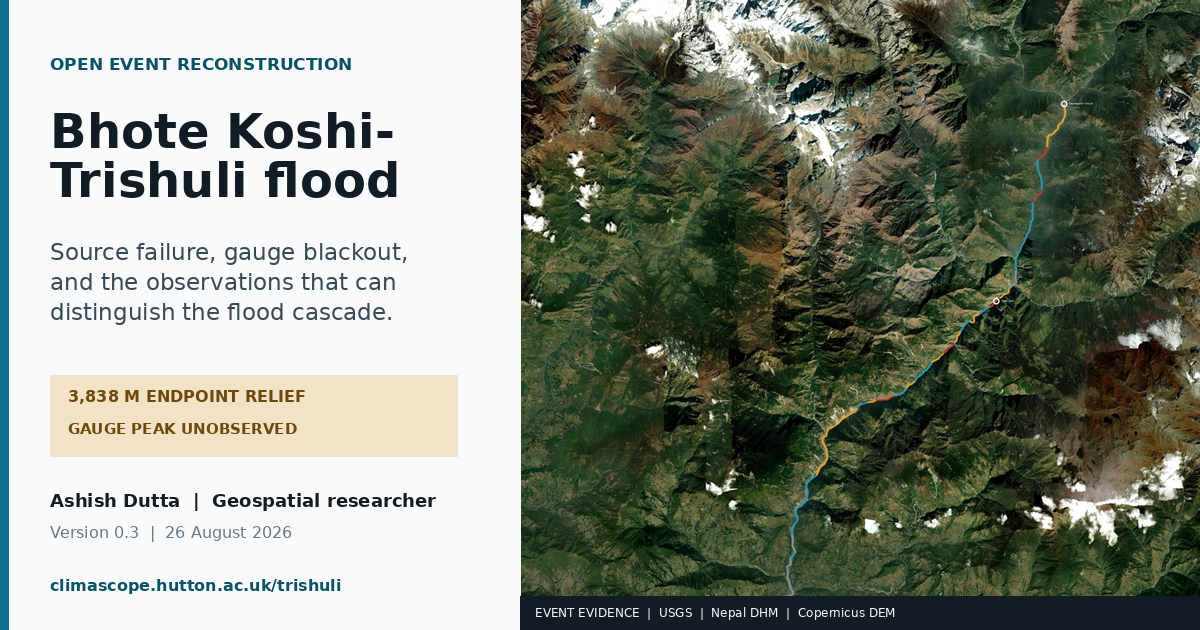
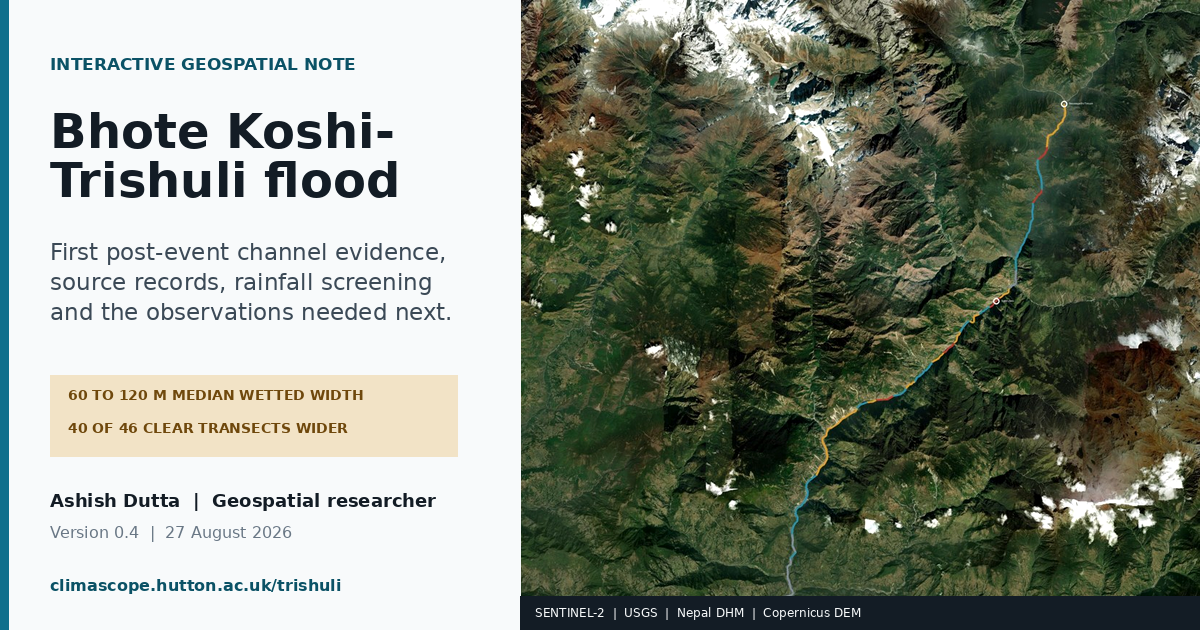
Lead the Trishuli note with measured change
Put the controlled Sentinel-2 channel-width result first, add a clearly caveated rainfall screen, document why the new Planet imagery is not quantitative, and keep the current 2026 trigger separate from the 2025 supraglacial-lake attribution. Refresh the interactive map identity and social preview around the new evidence.

diff --git a/templates/trishuli_report.html b/templates/trishuli_report.html
@@ -3,21 +3,21 @@
 <head>
 <meta charset="utf-8">
 <meta name="viewport" content="width=device-width,initial-scale=1">
-<title>Trishuli Flood Event Reconstruction | ClimaScope</title>
-<meta name="description" content="An open, testable reconstruction of the 26 August 2026 Bhote Koshi-Trishuli flood: source failure, terrain relief, gauge telemetry loss, competing mechanisms and the observations needed next.">
+<title>Trishuli Flood Geospatial Research Note | ClimaScope</title>
+<meta name="description" content="An evolving geospatial research note on the 26 August 2026 Bhote Koshi-Trishuli flood: first post-event channel measurements, source evidence, rainfall screening and public gauge telemetry.">
 <meta name="author" content="Ashish Dutta">
 <link rel="canonical" href="https://climascope.hutton.ac.uk/trishuli/report">
 <meta property="og:type" content="article">
 <meta property="og:site_name" content="ClimaScope">
-<meta property="og:title" content="Trishuli Flood: Source-to-impact Reconstruction">
-<meta property="og:description" content="Measured source relief, a public gauge-telemetry audit, competing mechanisms and an open evidence ledger.">
+<meta property="og:title" content="Bhote Koshi-Trishuli Flood: An Evolving Geospatial Note">
+<meta property="og:description" content="Interactive evidence and the first controlled post-event channel comparison, by geospatial researcher Ashish Dutta.">
 <meta property="og:url" content="https://climascope.hutton.ac.uk/trishuli/report">
 <meta property="og:image" content="https://climascope.hutton.ac.uk/static/trishuli/social-card.png">
 <meta property="og:image:width" content="1200">
 <meta property="og:image:height" content="630">
 <meta name="twitter:card" content="summary_large_image">
-<meta name="twitter:title" content="Trishuli Flood: Source-to-impact Reconstruction">
-<meta name="twitter:description" content="What the current evidence establishes, what remains unresolved, and how to contribute new observations.">
+<meta name="twitter:title" content="Bhote Koshi-Trishuli Flood: An Evolving Geospatial Note">
+<meta name="twitter:description" content="Interactive evidence and the first controlled post-event channel comparison, by geospatial researcher Ashish Dutta.">
 <meta name="twitter:image" content="https://climascope.hutton.ac.uk/static/trishuli/social-card.png">
 <link rel="stylesheet" href="{{ url_for('static', filename='trishuli/base.css') }}?v={{ av('trishuli/base.css') }}">
 <link rel="stylesheet" href="{{ url_for('static', filename='trishuli/report.css') }}?v={{ av('trishuli/report.css') }}">
@@ -28,15 +28,15 @@
   <a href="/">ClimaScope</a><span class="sep">/</span>
   <a href="/trishuli">Evidence map</a><span class="sep">/</span>
   <span>Event reconstruction</span>
-  <span class="grow">Version 0.3.1 &middot; 27 Aug 2026, 09:45 UTC</span>
+  <span class="grow">Version 0.4.0 &middot; 27 Aug 2026, 12:25 UTC</span>
 </div>
 
 <header class="mast">
   <div class="mast-in">
     <div>
-      <div class="eyebrow">Field note &middot; 27 August 2026</div>
+      <div class="eyebrow">Evolving research note &middot; 27 August 2026</div>
       <h1>Bhote Koshi&ndash;Trishuli flood</h1>
-      <p class="sub">A geospatial reading of the mass-movement record, the terrain and the public river gauges from 26 August.</p>
+      <p class="sub">An interactive geospatial reading of the first post-event image, source evidence, terrain and public river gauges.</p>
       <div class="byline">Ashish Dutta &middot; Geospatial researcher &middot; 27 August 2026</div>
     </div>
     <a class="map-cta" href="/trishuli"><span>Start with the geography</span><b>Open interactive map &rarr;</b></a>
@@ -47,18 +47,29 @@
   <div class="safety"><b>Not emergency guidance.</b> This is an independent reconstruction, not an official warning or damage assessment. Follow Nepal&rsquo;s authorities and local responders for safety information.</div>
 
   <section id="findings" class="opening-note">
-    <p class="lede">At <strong id="event-time">08:37:10 NPT</strong>, USGS recorded a large landslide high above the border. The mapped point sits at about <strong id="source-elevation">5,590 m</strong>, with <strong id="source-relief">3,838 m</strong> of vertical difference to the Rasuwagadhi gauge. That places a major mass movement at the right time and in a very energetic landscape. It does not, on its own, explain where all the water came from.</p>
+    <p class="lede">The clearest result so far is downstream. In the first usable post-event Sentinel-2 image, median wetted width across 46 cloud-free cross-sections changes from <strong>60 to 120&nbsp;m</strong>; 40 of the 46 are wider. It is a measured difference between 12 and 27 August, not a flood footprint and not an explanation of the trigger.</p>
     <dl class="keyfacts">
-      <div><dt>USGS origin</dt><dd>08:37:10 NPT</dd></div>
-      <div><dt>Mapped source</dt><dd>5,590 m</dd></div>
-      <div><dt>Endpoint relief</dt><dd>3,838 m</dd></div>
-      <div><dt>Preliminary blockage account</dt><dd>about 20 km upstream</dd></div>
+      <div><dt>Clear cross-sections</dt><dd>46</dd></div>
+      <div><dt>Median wetted width</dt><dd>60 &rarr; 120 m</dd></div>
+      <div><dt>Cross-sections wider</dt><dd>40 of 46</dd></div>
+      <div><dt>Channel readable</dt><dd>71%</dd></div>
     </dl>
-    <p class="author-note">The part I find most important is the gap between a convincing source event and an unresolved flood sequence.</p>
+    <p class="author-note">I am publishing this early because the useful evidence is arriving now. The map and figures will evolve, but observations, interpretation and uncertainty stay separate.</p>
+  </section>
+
+  <section id="rainfall">
+    <div class="section-head"><h2>A coarse rainfall screen does not explain the source surge</h2><p>The high-altitude source grid was nearly dry; the Nepal-side headwaters had ordinary monsoon rain.</p></div>
+    <dl class="keyfacts">
+      <div><dt>Source catchment, 72 h</dt><dd>0.5&ndash;0.8 mm</dd></div>
+      <div><dt>Source catchment, final 24 h</dt><dd>0.1&ndash;0.3 mm</dd></div>
+      <div><dt>Nepal headwaters, final 24 h</dt><dd>6.6&ndash;10.8 mm</dd></div>
+      <div><dt>Open-Meteo samples</dt><dd>14 points</dd></div>
+    </dl>
+    <p class="plain-caution">This is a rapid model-grid screen, not a mountain rain-gauge network. It makes intense source-area rainfall a poor fit to the available record, but cannot exclude local precipitation missed by a coarse grid.</p>
   </section>
 
   <section id="reconstruction">
-    <div class="section-head"><h2>A very steep source-to-border connection</h2><p>The elevation difference is striking, but it is not a mapped flow path.</p></div>
+    <div class="section-head"><h2>A very steep source-to-border connection</h2><p>USGS currently classifies the reviewed seismic source as an M 5.2 landslide.</p></div>
     <figure>
       <div id="reliefchart"></div>
       <figcaption>The USGS location and Rasuwagadhi DHM gauge are 13.5 km apart in a straight line. Copernicus DEM endpoint elevations differ by 3,838 m. DHM officials separately described a blockage about 20 km upstream along the corridor. No exact avalanche or flood path is inferred here.</figcaption>
@@ -76,6 +87,7 @@
       <div id="gauge-table" class="gauge-table" aria-label="Last available DHM gauge readings"></div>
     </details>
     <p class="plain-caution">A dashboard may still show these stations as &ldquo;below warning level&rdquo;. That label belongs to the final sample received; it says nothing about the unobserved peak or present safety.</p>
+    <p>ICIMOD separately reports a rise of as much as 9&nbsp;m in 30 minutes at Galchhi, citing hydrological observations. That value is attributed here because it is not present in the public DHM series retrieved for this audit.</p>
   </section>
 
   <section id="channel">
@@ -86,25 +98,27 @@
     </figure>
     <p>Scene cloud cover for 27 August is 78 per cent, but that is an average over a 110&nbsp;km tile. Read along the channel itself, 71 per cent of the river is usable, and the clear part is the lower corridor through Betrawati, Bidur and Devighat. The gorge above stays covered.</p>
     <p>Comparing only pixels free of cloud on both dates, within 600&nbsp;m of the mapped channel, the wetted area grows from 0.93 to 1.72&nbsp;km&sup2;, an increase of 85 per cent. Loosening or tightening the water threshold moves that figure between 72 and 133 per cent but does not change its direction. Across 46 cross-sections clear on both dates, median wetted width goes from 60 to 120&nbsp;m, and 40 of the 46 are wider.</p>
+    <p>The new <a href="https://source.coop/planet/disasterdata/nepal-flash-flood-2026-08-26">Planet Crisis Response collection</a> includes 27 August SkySat imagery at about 0.8&nbsp;m. It is sharper, but opaque cloud covers Rasuwagadhi and valley haze covers the channel at Syabrubesi. I have not used it for quantitative change mapping; higher resolution is not better evidence when the target is obscured.</p>
     <p class="plain-caution">This measures a difference between two dates. It does not attribute one. Both fall inside the monsoon, so part of the change is ordinary discharge variation, and at 20&nbsp;m pixels a 60&nbsp;m channel is three pixels across. It is an observation awaiting the radar pass, not a flood extent.</p>
   </section>
 
   <section id="mechanisms">
-    <div class="section-head"><h2>What is still open</h2><p>Three things the current evidence does not settle.</p></div>
+    <div class="section-head"><h2>What remains unresolved</h2><p>ICIMOD suspects an ice-rock avalanche, while saying the cause remains unconfirmed.</p></div>
     <div class="question-list">
       <article>
         <h3>Rock-and-ice flow</h3>
-        <p>The USGS solution gives a location, not a volume, and no deposit has been traced from scar to channel. Needs stereo or sub-metre optical.</p>
+        <p>USGS gives a reviewed seismic location and ICIMOD reports a suspected avalanche, but no scar-to-channel deposit or volume has been mapped here. Testing needs clear stereo or sub-metre optical imagery.</p>
       </article>
       <article>
         <h3>Debris dam and breach</h3>
-        <p>DHM&rsquo;s preliminary reading. An impoundment leaves slack water upstream, which radar detects through cloud. The 28 August pass covers this.</p>
+        <p>DHM and ICIMOD are assessing a temporary blockage. An impoundment may leave slack water or deposits upstream; the 28 August radar pass can test for those signatures through cloud.</p>
       </article>
       <article>
         <h3>An additional water store</h3>
-        <p>Kept open by the reported water volume. Testing needs before and after lake shorelines; recent Sentinel-2 scenes were 51, 78 and 97 per cent cloud.</p>
+        <p>The present imagery does not establish drainage from a lake or another stored-water source. Testing needs before-and-after shorelines; the relevant upper catchment remains cloud-covered.</p>
       </article>
     </div>
+    <p class="plain-caution">A supraglacial-lake drainage and roughly 20&nbsp;million&nbsp;m&sup3; explanation circulating for Rasuwa refers to the July 2025 flood. ICIMOD&rsquo;s 26 August 2026 advisory does not make that attribution for this event.</p>
   </section>
 
   <section id="next">
@@ -134,7 +148,9 @@
         <li><a href="https://dhm.gov.np/hydrology/realtime-stream">Nepal DHM station observations</a> &mdash; public point readings and station warning thresholds.</li>
         <li><a href="https://kathmandupost.com/national/2026/08/26/ice-avalanche-debris-lake-may-have-triggered-bhotekoshi-flood">DHM preliminary interpretation</a> &mdash; blockage distance and proposed temporary-lake sequence, reported by The Kathmandu Post.</li>
         <li><a href="https://www.icimod.org/press-release/major-flash-flood-sweeps-through-nepals-rasuwa-district-raising-fears-of-further-downstream-flooding/">ICIMOD advisory</a> &mdash; observed river behaviour and cause uncertainty.</li>
-        <li><a href="https://dataspace.copernicus.eu/">Copernicus DEM and Data Space</a> &mdash; endpoint terrain measurements and acquisition catalogue.</li>
+        <li><a href="https://dataspace.copernicus.eu/">Copernicus DEM and Data Space</a> &mdash; endpoint terrain measurements and Sentinel-2 acquisition catalogue.</li>
+        <li><a href="https://open-meteo.com/en/docs">Open-Meteo</a> &mdash; rapid 14-point model-grid rainfall screening.</li>
+        <li><a href="https://source.coop/planet/disasterdata/nepal-flash-flood-2026-08-26">Planet Crisis Response</a> &mdash; visual review of post-event PlanetScope and SkySat coverage; not used quantitatively.</li>
       </ul>
     </details>
     <details>
@@ -154,7 +170,7 @@
 
   <footer>
     <div><b>Prepared by Ashish Dutta</b><br>Geospatial researcher, The James Hutton Institute</div>
-    <div>A working research note. Observations and interpretations are versioned separately. Version 0.3.1 &middot; 27 Aug 2026, 09:45 UTC.</div>
+    <div>A working research note. Observations and interpretations are versioned separately. Version 0.4.0 &middot; 27 Aug 2026, 12:25 UTC.</div>
   </footer>
 </main>
 

diff --git a/templates/trishuli.html b/templates/trishuli.html
@@ -4,13 +4,13 @@
 <meta charset="utf-8">
 <meta name="viewport" content="width=device-width,initial-scale=1">
 <title>Trishuli Flood Evidence Map | ClimaScope</title>
-<meta name="description" content="Open evidence map for the 26 August 2026 Bhote Koshi–Trishuli flood: reviewed landslide source, DHM gauge telemetry, terrain and pre-event corridor context.">
+<meta name="description" content="Ashish Dutta's interactive geospatial evidence map for the 26 August 2026 Bhote Koshi–Trishuli flood, with live mapping context and an evolving source-to-impact reconstruction.">
 <meta name="author" content="Ashish Dutta">
 <link rel="canonical" href="https://climascope.hutton.ac.uk/trishuli">
 <meta property="og:type" content="website">
 <meta property="og:site_name" content="ClimaScope">
 <meta property="og:title" content="Bhote Koshi–Trishuli Flood Evidence Map">
-<meta property="og:description" content="Inspect the reviewed landslide source, DHM gauge telemetry and pre-event corridor context. No flood extent or damage is inferred.">
+<meta property="og:description" content="Interactive evidence, live mapping context and the first post-event channel comparison, by geospatial researcher Ashish Dutta.">
 <meta property="og:url" content="https://climascope.hutton.ac.uk/trishuli">
 <meta property="og:image" content="https://climascope.hutton.ac.uk/static/trishuli/social-card.png">
 <meta property="og:image:width" content="1200">
@@ -28,7 +28,7 @@
     <a href="/">ClimaScope</a><span class="sep">/</span>
     <span>Trishuli flood</span><span class="sep">/</span>
     <a href="/trishuli/report">Event reconstruction</a>
-    <span class="grow">Version 0.3.1 &middot; evidence 26 Aug 2026</span>
+    <span class="grow">Version 0.4.0 &middot; updated 27 Aug 2026</span>
   </div>
 
   <div class="app">
@@ -36,7 +36,8 @@
     <div class="brand">
       <div class="eyebrow">Open event evidence</div>
       <h1>Trishuli Flood Evidence Map</h1>
-      <p>Reviewed mass-movement source, public gauge telemetry and pre-event corridor context for 26 August 2026.</p>
+      <p class="author">Ashish Dutta &middot; Geospatial researcher</p>
+      <p>Reviewed event evidence, live mapping context and terrain along the 26 August 2026 flood corridor.</p>
     </div>
 
     <div class="grp event-grp">

diff --git a/static/trishuli/report.js b/static/trishuli/report.js
@@ -25,6 +25,10 @@
     });
   }
   function n(value) { return Number(value).toLocaleString('en-GB'); }
+  function setText(id, value) {
+    var el = $(id);
+    if (el) el.textContent = value;
+  }
   function clock(iso, seconds) {
     var d = new Date(iso);
     return d.toLocaleTimeString('en-GB', {timeZone:'Asia/Kathmandu', hour:'2-digit', minute:'2-digit', second:seconds ? '2-digit' : undefined, hour12:false});
@@ -56,9 +60,9 @@
     });
 
   function render(data) {
-    $('event-time').textContent = clock(data.event.time_npt, true) + ' NPT';
-    $('source-elevation').textContent = n(data.event.source_elevation_m) + ' m';
-    $('source-relief').textContent = n(data.event.relief_to_rasuwagadhi_m) + ' m';
+    setText('event-time', clock(data.event.time_npt, true) + ' NPT');
+    setText('source-elevation', n(data.event.source_elevation_m) + ' m');
+    setText('source-relief', n(data.event.relief_to_rasuwagadhi_m) + ' m');
     renderRelief(data.event);
     renderTelemetry(data);
     renderGaugeTable(data.gauges);

diff --git a/static/trishuli/map.css b/static/trishuli/map.css
@@ -6,6 +6,7 @@ aside{background:var(--panel);border-right:1px solid var(--line);overflow-y:auto
 .brand .eyebrow{font-size:9.5px;font-weight:600;letter-spacing:0;text-transform:uppercase;color:var(--accent-ink)}
 .brand h1{font-size:18px;font-weight:700;letter-spacing:0;margin:5px 0 4px}
 .brand p{margin:0;font-size:11.5px;color:var(--muted);line-height:1.45}
+.brand p.author{color:var(--ink-2);font-weight:600;margin:0 0 4px}
 .grp{padding:13px 18px;border-bottom:1px solid var(--line-soft)}
 .grp:last-child{border-bottom:0}
 .grp h2{font-size:9.5px;font-weight:600;letter-spacing:0;text-transform:uppercase;color:var(--muted);margin:0 0 9px}
